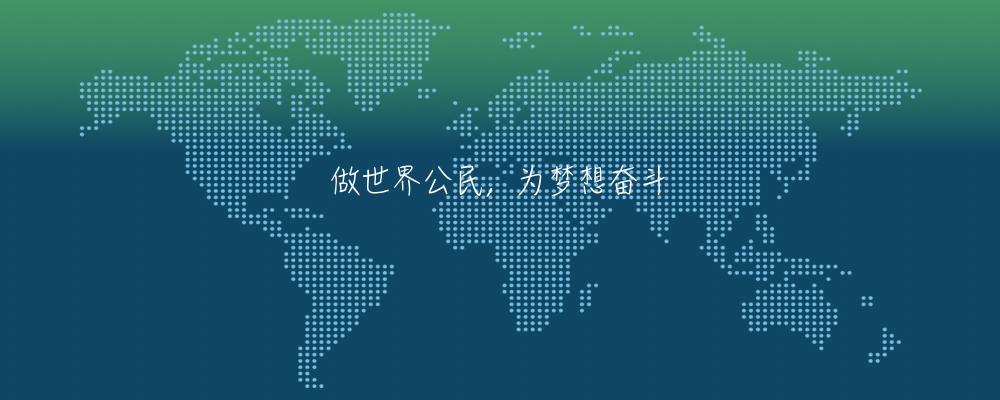
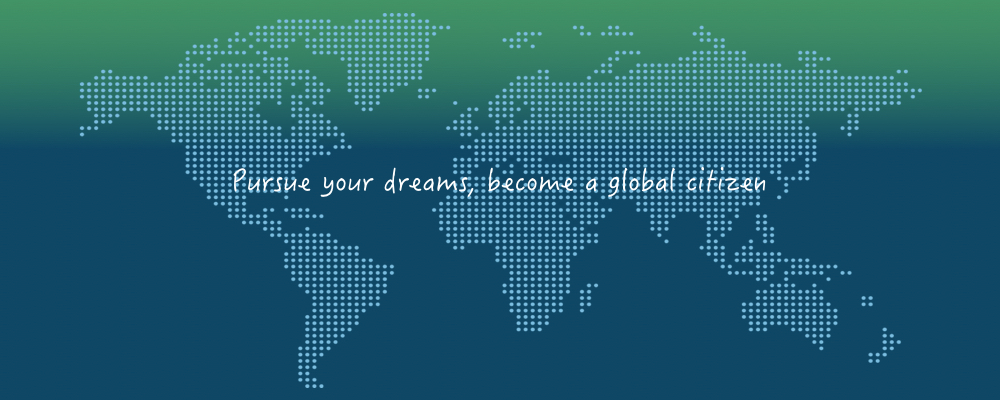
updated the last two english translation

Changed region(s): [[0.248, 0.42, 0.775, 0.51], [0.217, 0.42, 0.248, 0.45]]

diff --git a/code - s/src/css/index.css b/code - s/src/css/index.css
@@ -341,7 +341,7 @@ ul.topnav li.icon {display: none;}
 .site-footer .footer ul li a span{
   color: #AFA9A9 !important;
   line-height: 20px;
-  font-size: 16px !important;
+  font-size: 14px !important;
 }
 .site-footer .copyright img {
   display: block;
@@ -353,7 +353,7 @@ ul.topnav li.icon {display: none;}
   padding-bottom: 10px;
 }
 .site-footer .copyright a {
-  font-size: 18px;
+  font-size: 14px;
   color: #AFA9A9;
 }
 
